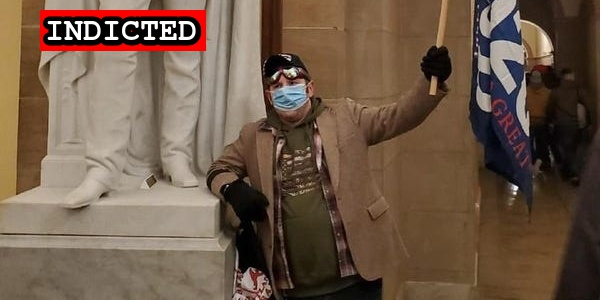
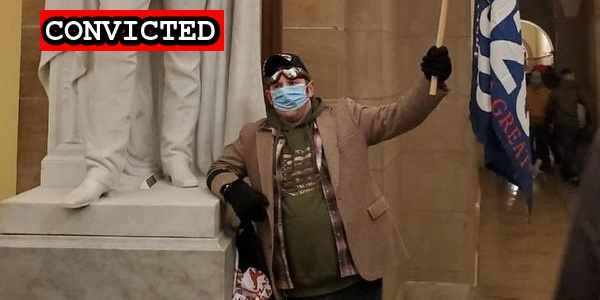
New guilty plea

Changed region(s): [[0.06, 0.03, 0.39, 0.18]]

diff --git a/docs/_suspects/arthur-jackman.md b/docs/_suspects/arthur-jackman.md
@@ -7,9 +7,9 @@ status: Indicted
 date: 2021-03-30
 charged: 2021-03-30
 indicted: 2021-05-26
-convicted: 
-sentenced: 
-dismissed: 
+convicted:
+sentenced:
+dismissed:
 deceased:
 age: 30
 occupation:
@@ -30,8 +30,10 @@ layout: suspect
 published: true
 caseNumber: 1:21-cr-378
 ---
+
 - [News Report](https://www.clickorlando.com/news/local/2021/03/30/capitol-riot-suspect-in-custody-in-orlando/)
 - [Complaint](https://www.justice.gov/opa/case-multi-defendant/file/1381341/download)
 - [Statement of Facts](https://www.justice.gov/opa/case-multi-defendant/file/1381346/download)
 - [Courthouse [Video]](https://twitter.com/DianthaSol/status/1377391331740368899)
 - [Indictment](https://extremism.gwu.edu/sites/g/files/zaxdzs2191/f/Arthur%20Jackman%20and%20Paul%20Rae%20Indictment.pdf)
+- [Notice of Discovery](https://www.documentcloud.org/documents/21033864-210803-jackman-notice-of-discovery)

diff --git a/docs/_suspects/gabriel-garcia.md b/docs/_suspects/gabriel-garcia.md
@@ -7,9 +7,9 @@ status: Indicted
 date: 2021-01-19
 charged: 2021-01-19
 indicted: 2021-02-17
-convicted: 
-sentenced: 
-dismissed: 
+convicted:
+sentenced:
+dismissed:
 deceased:
 age: 40
 occupation: U.S. Army (Former)
@@ -30,7 +30,9 @@ layout: suspect
 published: true
 caseNumber: 1:21-cr-129
 ---
+
 - [News Report](https://www.miamiherald.com/news/local/crime/article248608940.html)
 - [Statement of Facts](https://www.justice.gov/opa/page/file/1356776/download)
 - [Complaint](https://www.justice.gov/opa/page/file/1356771/download)
 - [Indictment](https://www.justice.gov/usao-dc/case-multi-defendant/file/1377706/download)
+- [Media Interview](https://twitter.com/MIAagainstFash/status/1422591337782779911)

diff --git a/docs/_suspects/karl-dresch.md b/docs/_suspects/karl-dresch.md
@@ -3,11 +3,11 @@ name: Karl Dresch
 lastName: Dresch
 aka:
 residence: Michigan
-status: Indicted
+status: Convicted
 date: 2021-01-20
 charged: 2021-01-20
 indicted: 2021-02-03
-convicted: 
+convicted: 2021-08-04
 sentenced: 
 dismissed: 
 deceased:
